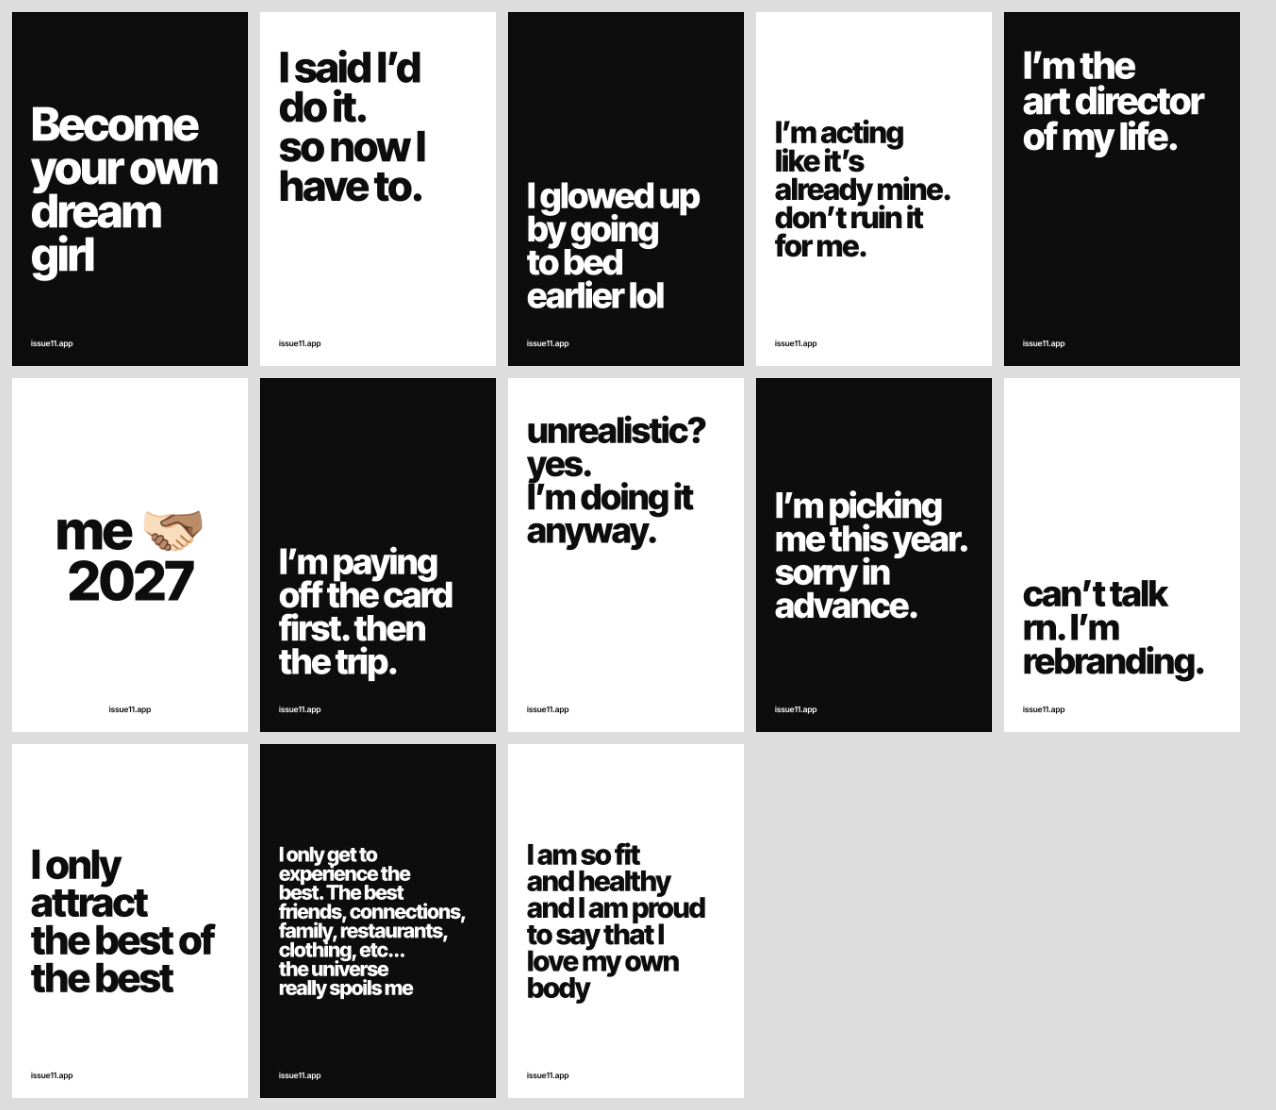
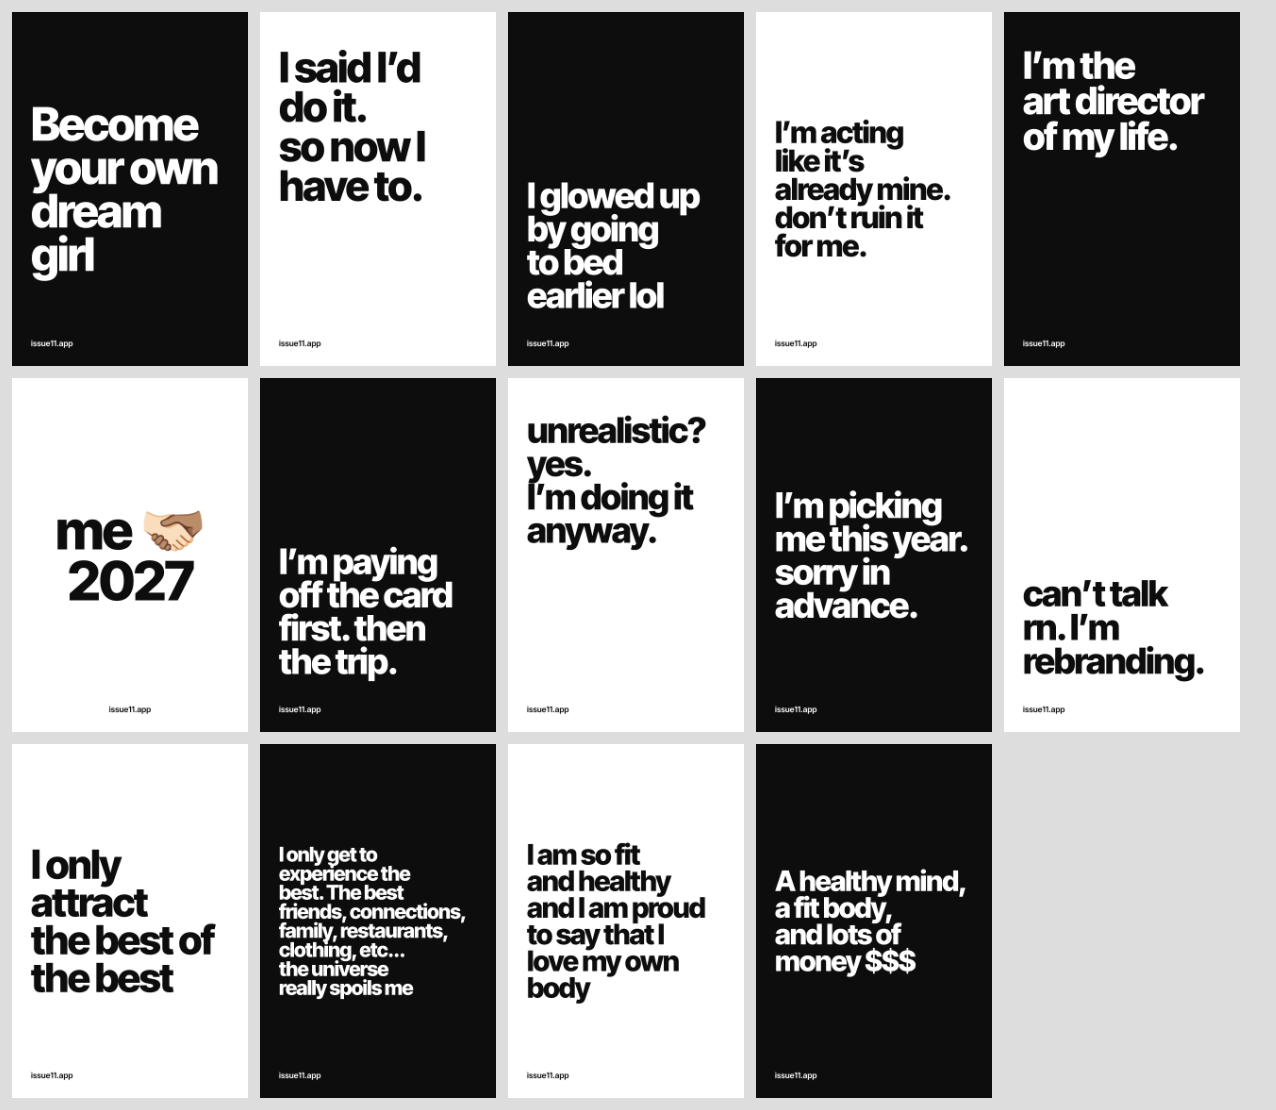
Pin50: Megan's affirmation
Claude-Session: https://claude.ai/code/session_013zCndAMB566ZdjtTW5BiS4

Changed region(s): [[0.5807, 0.6432, 0.7947, 1.0]]

diff --git a/drafts/pinterest/batch4/Pin50.dc.html b/drafts/pinterest/batch4/Pin50.dc.html
@@ -1,0 +1,24 @@
+<!doctype html>
+<html lang="en">
+<head>
+<meta charset="utf-8">
+<title>Quote · A healthy mind, a fit body, and lots of money $$$</title>
+<script src="./support.js"></script>
+</head>
+<body>
+<x-dc>
+<helmet>
+<link href="https://fonts.googleapis.com/css2?family=Inter+Tight:wght@400;500;600;700;800&amp;display=swap" rel="stylesheet">
+<style>body{margin:0}</style>
+</helmet>
+<div style="width:1000px; height:1500px; position:relative; overflow:hidden; background:#0D0D0D; font-family:'Inter Tight', 'Apple Color Emoji','Noto Color Emoji','Segoe UI Emoji', sans-serif; color:#0D0D0D">
+<div style="position:absolute; inset:0; padding:0 80px; box-sizing:border-box; display:flex; flex-direction:column; justify-content:center; color:#FFFFFF"><p style="margin:0; font-size:120px; font-weight:800; letter-spacing:-0.04em; line-height:0.94; text-align:left; white-space:nowrap">A healthy mind,<br>a fit body,<br>and lots of<br>money $$$</p></div><p style="position:absolute; left:80px; right:80px; bottom:76px; margin:0; color:#FFFFFF; font-size:34px; font-weight:600; letter-spacing:0.01em; text-align:left">issue11.app</p>
+</div>
+</x-dc>
+<script type="text/x-dc" data-dc-script data-props='{"$preview":{"width":1000,"height":1500}}'>
+class Component extends DCLogic {
+  renderVals() { return {}; }
+}
+</script>
+</body>
+</html>

diff --git a/drafts/pinterest/batch4/generator-b4.py b/drafts/pinterest/batch4/generator-b4.py
@@ -37,6 +37,7 @@ P = [
  ("Pin47", "I only attract the best of the best", pin(["I only", "attract", "the best of", "the best"], 170, False, "mid")),
  ("Pin48", "I only get to experience the best. The best friends, connections, family, restaurants, clothing, etc... the universe really spoils me", pin(["I only get to", "experience the", "best. The best", "friends, connections,", "family, restaurants,", "clothing, etc...", "the universe", "really spoils me"], 86, True, "mid")),
  ("Pin49", "I am so fit and healthy and I am proud to say that I love my own body", pin(["I am so fit", "and healthy", "and I am proud", "to say that I", "love my own", "body"], 120, False, "mid")),
+ ("Pin50", "A healthy mind, a fit body, and lots of money $$$", pin(["A healthy mind,", "a fit body,", "and lots of", "money $$$"], 120, True, "mid")),
 ]
 for k, t, (bg, inner) in P:
     open(f"{R}/project/{k}.dc.html", "w").write(doc(f"Quote · {t}", inner, bg))
